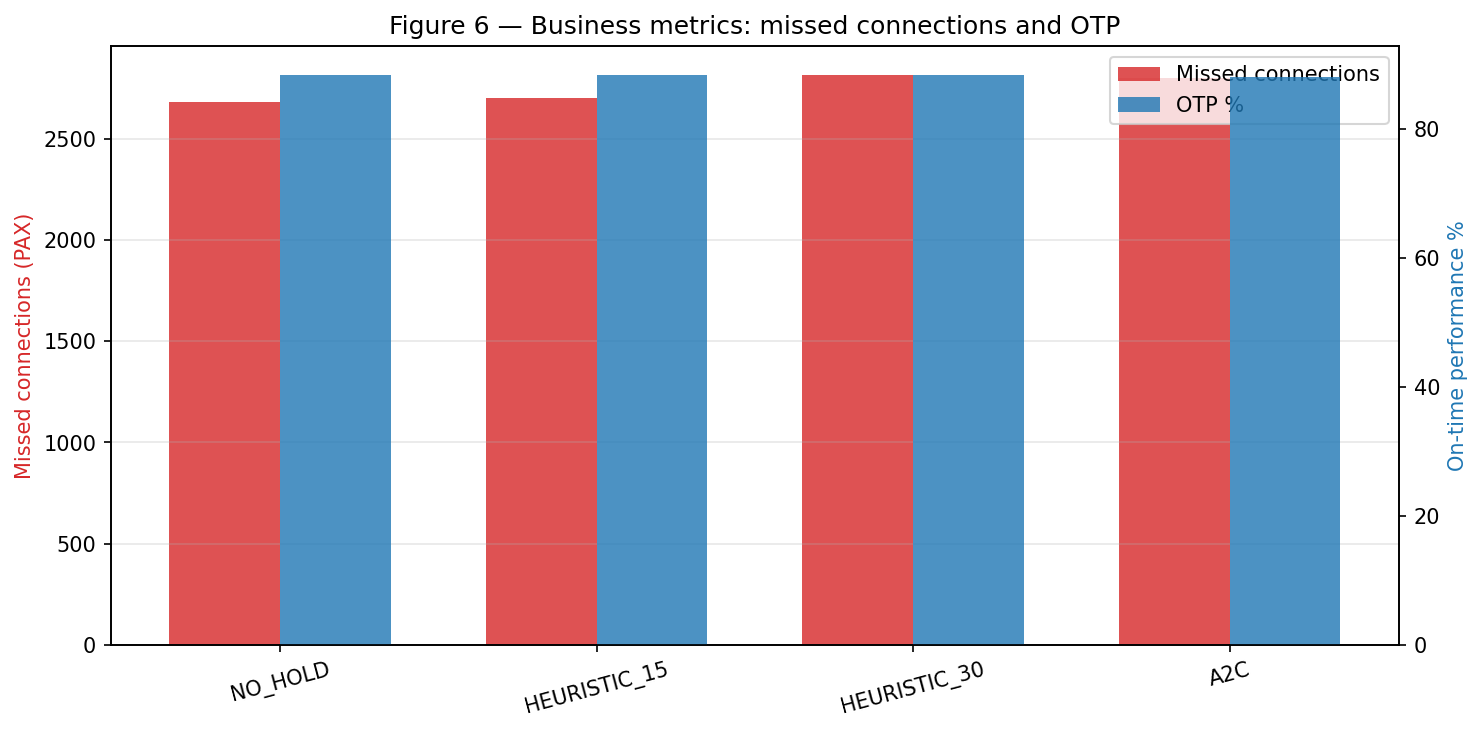
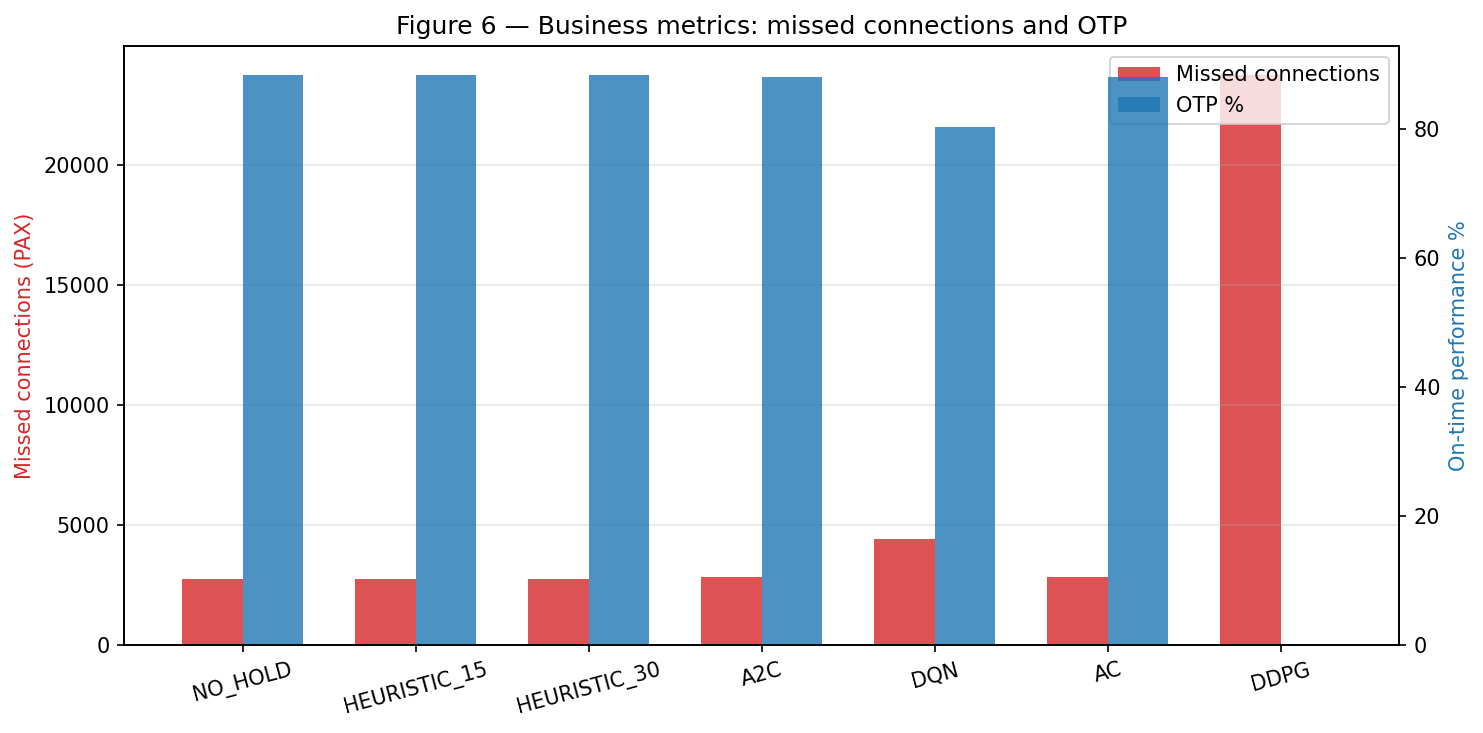
Full 4-algo run with real simulator, A2C fixed, DQN learning

diff --git a/algoImplementation/agents/ddpg.py b/algoImplementation/agents/ddpg.py
@@ -89,7 +89,7 @@ class DDPGAgent:
         self.critic_opt = Adam(lr=lr_critic)
 
         self.buffer = ReplayBuffer(buffer_size, state_dim)
-        self.noise  = OUNoise(action_dim, seed=seed)
+        self.noise = OUNoise(action_dim, mu=0.0, theta=0.15, sigma=0.05, seed=seed)
 
         # Logging
         self.losses      = []
@@ -99,12 +99,9 @@ class DDPGAgent:
     # ── Action selection ───────────────────────────────────────────────────────
 
     def select_action(self, state: np.ndarray, add_noise: bool = True) -> float:
-        """Returns continuous hold duration in [0, 30] minutes."""
-        import sys, os
-        from utils.networks import tanh
         raw    = self.actor.forward(state)
-        action = float(np.tanh(raw[0]))                           # squash to (-1,1)
-        action = (action + 1) / 2 * self.action_high             # scale to [0,30]
+        # Scale to [0, 15] max instead of [0, 30] — start conservative
+        action = (float(np.tanh(raw[0])) + 1) / 2 * 15.0
         if add_noise:
             action += float(self.noise.sample()[0])
         return float(np.clip(action, self.action_low, self.action_high))
@@ -113,8 +110,8 @@ class DDPGAgent:
         return self.select_action(state, add_noise=False)
 
     def discrete_action(self, state: np.ndarray) -> int:
-        """Convert continuous action to nearest discrete index for env compatibility."""
         hold = self.greedy_action(state)
+        # Map continuous [0,30] to nearest discrete index
         durations = [0, 5, 10, 15, 20, 25, 30]
         return int(np.argmin([abs(hold - d) for d in durations]))
 
